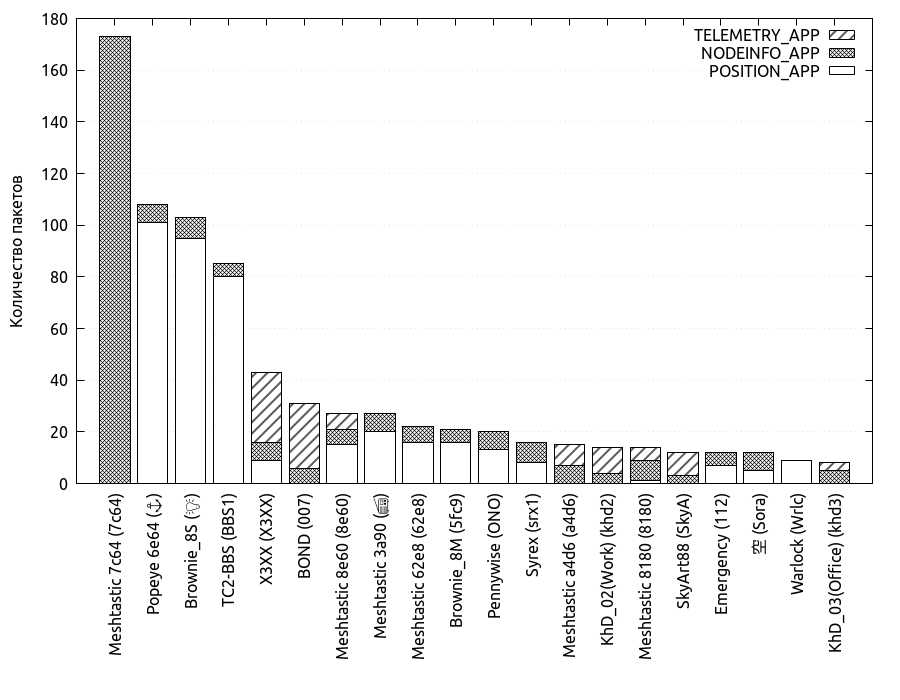
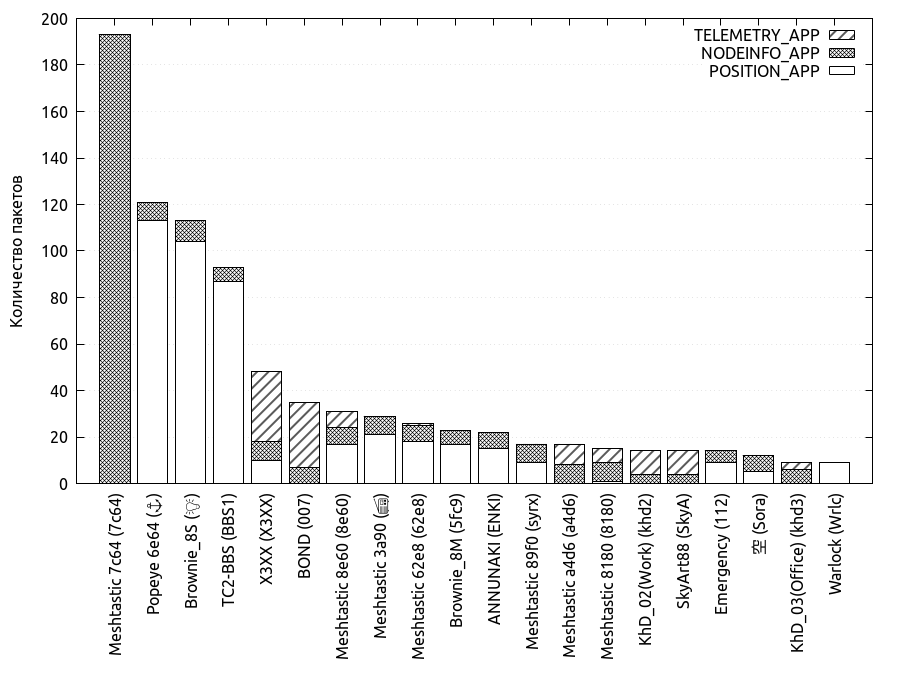
Update: 2026-05-06

diff --git a/spamers/2026-05-06/index.html b/spamers/2026-05-06/index.html
@@ -7,7 +7,7 @@
 <meta name="robots" content="index, follow">
 <title>2026-05-06 | dwr𝔣</title>
 <meta name="keywords" content="">
-<meta name="description" content="Услышано нод за сутки: 34">
+<meta name="description" content="Услышано нод за сутки: 35">
 <meta name="author" content="">
 <link rel="canonical" href="https://dwrf.ftp.sh/spamers/2026-05-06/">
 <link crossorigin="anonymous" href="/assets/css/stylesheet.6fa248c180ac4f9056a884e3b49e304390e0e4bc65ce5c291c0c637f6f2db58c.css" integrity="sha256-b6JIwYCsT5BWqITjtJ4wQ5Dg5LxlzlwpHAxjf28ttYw=" rel="preload stylesheet" as="style">
@@ -30,16 +30,16 @@
 </noscript><meta property="og:url" content="https://dwrf.ftp.sh/spamers/2026-05-06/">
   <meta property="og:site_name" content="dwr𝔣">
   <meta property="og:title" content="2026-05-06">
-  <meta property="og:description" content="Услышано нод за сутки: 34">
+  <meta property="og:description" content="Услышано нод за сутки: 35">
   <meta property="og:locale" content="ru_ru">
   <meta property="og:type" content="article">
     <meta property="article:section" content="spamers">
     <meta property="article:published_time" content="2026-05-06T00:00:00+00:00">
-    <meta property="article:modified_time" content="2026-05-06T21:30:18+03:00">
+    <meta property="article:modified_time" content="2026-05-06T23:55:02+03:00">
 
   <meta name="twitter:card" content="summary">
   <meta name="twitter:title" content="2026-05-06">
-  <meta name="twitter:description" content="Услышано нод за сутки: 34">
+  <meta name="twitter:description" content="Услышано нод за сутки: 35">
 
 
 <script type="application/ld+json">
@@ -68,15 +68,15 @@
   "@type": "BlogPosting",
   "headline": "2026-05-06",
   "name": "2026-05-06",
-  "description": "Услышано нод за сутки: 34",
+  "description": "Услышано нод за сутки: 35",
   "keywords": [
     
   ],
-  "articleBody": "\n# NodeName Position NodeInfo Telemetry 1 Meshtastic 7c64 (7c64) 0 173 0 2 Popeye 6e64 (⚓) 101 7 0 3 Brownie_8S (💡) 95 8 0 4 TC2-BBS (BBS1) 80 5 0 5 X3XX (X3XX) 9 7 27 6 BOND (007) 0 6 25 7 Meshtastic 8e60 (8e60) 15 6 6 8 Meshtastic 3a90 (📻) 20 7 0 9 Meshtastic 62e8 (62e8) 16 6 0 10 Brownie_8M (5fc9) 16 5 0 11 Pennywise (ONO) 13 7 0 12 Syrex (srx1) 8 8 0 13 Meshtastic a4d6 (a4d6) 0 7 8 14 KhD_02(Work) (khd2) 0 4 10 15 Meshtastic 8180 (8180) 1 8 5 16 SkyArt88 (SkyA) 0 3 9 17 Emergency (112) 7 5 0 18 空 (Sora) 5 7 0 19 Warlock (Wrlc) 9 0 0 20 KhD_03(Office) (khd3) 0 5 3 21 DELTA-S (DLT1) 1 6 0 22 Professor (MCU2) 1 6 0 23 Meshtastic f1e4 (f1e4) 0 7 0 24 Armatik_4 (AMT4) 0 7 0 25 Cthulhu (cthl) 0 6 0 26 jenya (ttl) 0 6 0 27 Armatik_3 (AMT3) 0 6 0 28 Solarcore0 (Sun0) 0 6 0 29 Miamiworm (miwr) 0 5 0 30 Meshtastic 3ff8 (3ff8) 0 5 0 31 Meshtastic de3b (de3b) 0 3 0 32 BALABAN (BALA) 2 0 0 33 Meshtastic 2710 (2710) 0 2 0 34 Meshtastic d84c (d84c) 0 1 0 ",
-  "wordCount" : "221",
+  "articleBody": "\n# NodeName Position NodeInfo Telemetry 1 Meshtastic 7c64 (7c64) 0 193 0 2 Popeye 6e64 (⚓) 113 8 0 3 Brownie_8S (💡) 104 9 0 4 TC2-BBS (BBS1) 87 6 0 5 X3XX (X3XX) 10 8 30 6 BOND (007) 0 7 28 7 Meshtastic 8e60 (8e60) 17 7 7 8 Meshtastic 3a90 (📻) 21 8 0 9 Meshtastic 62e8 (62e8) 18 7 1 10 Brownie_8M (5fc9) 17 6 0 11 ANNUNAKI (ENKI) 15 7 0 12 Meshtastic 89f0 (syrx) 9 8 0 13 Meshtastic a4d6 (a4d6) 0 8 9 14 Meshtastic 8180 (8180) 1 8 6 15 KhD_02(Work) (khd2) 0 4 10 16 SkyArt88 (SkyA) 0 4 10 17 Emergency (112) 9 5 0 18 空 (Sora) 5 7 0 19 KhD_03(Office) (khd3) 0 6 3 20 Warlock (Wrlc) 9 0 0 21 ProfessorU (MCU3) 2 7 0 22 DELTA-S (DLT1) 1 7 0 23 Armatik_4 (AMT4) 0 8 0 24 Cthulhu (cthl) 0 7 0 25 jenya (ttl) 0 7 0 26 Armatik_3 (AMT3) 0 7 0 27 Solarcore0 (Sun0) 0 7 0 28 Meshtastic f1e4 (f1e4) 0 7 0 29 Miamiworm (miwr) 0 6 0 30 Meshtastic 3ff8 (3ff8) 0 6 0 31 Meshtastic de3b (de3b) 0 3 0 32 BALABAN (BALA) 2 0 0 33 Meshtastic 2710 (2710) 0 2 0 34 Meshtastic d84c (d84c) 0 1 0 35 UGOLOK (UGOL) 0 1 0 ",
+  "wordCount" : "228",
   "inLanguage": "en",
   "datePublished": "2026-05-06T00:00:00Z",
-  "dateModified": "2026-05-06T21:30:18.286953+03:00",
+  "dateModified": "2026-05-06T23:55:02.987251+03:00",
   "mainEntityOfPage": {
     "@type": "WebPage",
     "@id": "https://dwrf.ftp.sh/spamers/2026-05-06/"
@@ -135,83 +135,83 @@
           <td style="text-align: center">1</td>
           <td style="text-align: center">Meshtastic 7c64 (7c64)</td>
           <td style="text-align: center">0</td>
-          <td style="text-align: center">173</td>
+          <td style="text-align: center">193</td>
           <td style="text-align: center">0</td>
       </tr>
       <tr>
           <td style="text-align: center">2</td>
           <td style="text-align: center">Popeye 6e64 (⚓)</td>
-          <td style="text-align: center">101</td>
-          <td style="text-align: center">7</td>
+          <td style="text-align: center">113</td>
+          <td style="text-align: center">8</td>
           <td style="text-align: center">0</td>
       </tr>
       <tr>
           <td style="text-align: center">3</td>
           <td style="text-align: center">Brownie_8S (💡)</td>
-          <td style="text-align: center">95</td>
-          <td style="text-align: center">8</td>
+          <td style="text-align: center">104</td>
+          <td style="text-align: center">9</td>
           <td style="text-align: center">0</td>
       </tr>
       <tr>
           <td style="text-align: center">4</td>
           <td style="text-align: center">TC2-BBS (BBS1)</td>
-          <td style="text-align: center">80</td>
-          <td style="text-align: center">5</td>
+          <td style="text-align: center">87</td>
+          <td style="text-align: center">6</td>
           <td style="text-align: center">0</td>
       </tr>
       <tr>
           <td style="text-align: center">5</td>
           <td style="text-align: center">X3XX (X3XX)</td>
-          <td style="text-align: center">9</td>
-          <td style="text-align: center">7</td>
-          <td style="text-align: center">27</td>
+          <td style="text-align: center">10</td>
+          <td style="text-align: center">8</td>
+          <td style="text-align: center">30</td>
       </tr>
       <tr>
           <td style="text-align: center">6</td>
           <td style="text-align: center">BOND (007)</td>
           <td style="text-align: center">0</td>
-          <td style="text-align: center">6</td>
-          <td style="text-align: center">25</td>
+          <td style="text-align: center">7</td>
+          <td style="text-align: center">28</td>
       </tr>
       <tr>
           <td style="text-align: center">7</td>
           <td style="text-align: center">Meshtastic 8e60 (8e60)</td>
-          <td style="text-align: center">15</td>
-          <td style="text-align: center">6</td>
-          <td style="text-align: center">6</td>
+          <td style="text-align: center">17</td>
+          <td style="text-align: center">7</td>
+          <td style="text-align: center">7</td>
       </tr>
       <tr>
           <td style="text-align: center">8</td>
           <td style="text-align: center">Meshtastic 3a90 (📻)</td>
-          <td style="text-align: center">20</td>
-          <td style="text-align: center">7</td>
+          <td style="text-align: center">21</td>
+          <td style="text-align: center">8</td>
           <td style="text-align: center">0</td>
       </tr>
       <tr>
           <td style="text-align: center">9</td>
           <td style="text-align: center">Meshtastic 62e8 (62e8)</td>
-          <td style="text-align: center">16</td>
-          <td style="text-align: center">6</td>
-          <td style="text-align: center">0</td>
+          <td style="text-align: center">18</td>
+          <td style="text-align: center">7</td>
+          <td style="text-align: center">1</td>
       </tr>
       <tr>
           <td style="text-align: center">10</td>
           <td style="text-align: center">Brownie_8M (5fc9)</td>
-          <td style="text-align: center">16</td>
-          <td style="text-align: center">5</td>
+          <td style="text-align: center">17</td>
+          <td style="text-align: center">6</td>
           <td style="text-align: center">0</td>
       </tr>
       <tr>
           <td style="text-align: center">11</td>
-          <td style="text-align: center">Pennywise (ONO)</td>
-          <td style="text-align: center">13</td>
+          <td style="text-align: center">ANNUNAKI (ENKI)</td>
+          <td style="text-align: center">15</td>
           <td style="text-align: center">7</td>
           <td style="text-align: center">0</td>
       </tr>
       <tr>
           <td style="text-align: center">12</td>
-          <td style="text-align: center">Syrex (srx1)</td>
-          <td style="text-align: center">8</td>
+          <td style="text-align: center">Meshtastic 89f0 (syrx)</td>
+          <td style="text-align: center">9</td>
           <td style="text-align: center">8</td>
           <td style="text-align: center">0</td>
       </tr>
@@ -219,34 +219,34 @@
           <td style="text-align: center">13</td>
           <td style="text-align: center">Meshtastic a4d6 (a4d6)</td>
           <td style="text-align: center">0</td>
-          <td style="text-align: center">7</td>
           <td style="text-align: center">8</td>
+          <td style="text-align: center">9</td>
       </tr>
       <tr>
           <td style="text-align: center">14</td>
+          <td style="text-align: center">Meshtastic 8180 (8180)</td>
+          <td style="text-align: center">1</td>
+          <td style="text-align: center">8</td>
+          <td style="text-align: center">6</td>
+      </tr>
+      <tr>
+          <td style="text-align: center">15</td>
           <td style="text-align: center">KhD_02(Work) (khd2)</td>
           <td style="text-align: center">0</td>
           <td style="text-align: center">4</td>
           <td style="text-align: center">10</td>
       </tr>
       <tr>
-          <td style="text-align: center">15</td>
-          <td style="text-align: center">Meshtastic 8180 (8180)</td>
-          <td style="text-align: center">1</td>
-          <td style="text-align: center">8</td>
-          <td style="text-align: center">5</td>
-      </tr>
-      <tr>
           <td style="text-align: center">16</td>
           <td style="text-align: center">SkyArt88 (SkyA)</td>
           <td style="text-align: center">0</td>
-          <td style="text-align: center">3</td>
-          <td style="text-align: center">9</td>
+          <td style="text-align: center">4</td>
+          <td style="text-align: center">10</td>
       </tr>
       <tr>
           <td style="text-align: center">17</td>
           <td style="text-align: center">Emergency (112)</td>
-          <td style="text-align: center">7</td>
+          <td style="text-align: center">9</td>
           <td style="text-align: center">5</td>
           <td style="text-align: center">0</td>
       </tr>
@@ -259,86 +259,86 @@
       </tr>
       <tr>
           <td style="text-align: center">19</td>
+          <td style="text-align: center">KhD_03(Office) (khd3)</td>
+          <td style="text-align: center">0</td>
+          <td style="text-align: center">6</td>
+          <td style="text-align: center">3</td>
+      </tr>
+      <tr>
+          <td style="text-align: center">20</td>
           <td style="text-align: center">Warlock (Wrlc)</td>
           <td style="text-align: center">9</td>
           <td style="text-align: center">0</td>
           <td style="text-align: center">0</td>
       </tr>
       <tr>
-          <td style="text-align: center">20</td>
-          <td style="text-align: center">KhD_03(Office) (khd3)</td>
-          <td style="text-align: center">0</td>
-          <td style="text-align: center">5</td>
-          <td style="text-align: center">3</td>
-      </tr>
-      <tr>
           <td style="text-align: center">21</td>
-          <td style="text-align: center">DELTA-S (DLT1)</td>
-          <td style="text-align: center">1</td>
-          <td style="text-align: center">6</td>
-          <td style="text-align: center">0</td>
-      </tr>
-      <tr>
-          <td style="text-align: center">22</td>
-          <td style="text-align: center">Professor (MCU2)</td>
-          <td style="text-align: center">1</td>
-          <td style="text-align: center">6</td>
-          <td style="text-align: center">0</td>
-      </tr>
-      <tr>
-          <td style="text-align: center">23</td>
-          <td style="text-align: center">Meshtastic f1e4 (f1e4)</td>
-          <td style="text-align: center">0</td>
+          <td style="text-align: center">ProfessorU (MCU3)</td>
+          <td style="text-align: center">2</td>
           <td style="text-align: center">7</td>
           <td style="text-align: center">0</td>
       </tr>
       <tr>
-          <td style="text-align: center">24</td>
+          <td style="text-align: center">22</td>
+          <td style="text-align: center">DELTA-S (DLT1)</td>
+          <td style="text-align: center">1</td>
+          <td style="text-align: center">7</td>
+          <td style="text-align: center">0</td>
+      </tr>
+      <tr>
+          <td style="text-align: center">23</td>
           <td style="text-align: center">Armatik_4 (AMT4)</td>
+          <td style="text-align: center">0</td>
+          <td style="text-align: center">8</td>
+          <td style="text-align: center">0</td>
+      </tr>
+      <tr>
+          <td style="text-align: center">24</td>
+          <td style="text-align: center">Cthulhu (cthl)</td>
           <td style="text-align: center">0</td>
           <td style="text-align: center">7</td>
           <td style="text-align: center">0</td>
       </tr>
       <tr>
           <td style="text-align: center">25</td>
-          <td style="text-align: center">Cthulhu (cthl)</td>
+          <td style="text-align: center">jenya (ttl)</td>
           <td style="text-align: center">0</td>
-          <td style="text-align: center">6</td>
+          <td style="text-align: center">7</td>
           <td style="text-align: center">0</td>
       </tr>
       <tr>
           <td style="text-align: center">26</td>
-          <td style="text-align: center">jenya (ttl)</td>
+          <td style="text-align: center">Armatik_3 (AMT3)</td>
           <td style="text-align: center">0</td>
-          <td style="text-align: center">6</td>
+          <td style="text-align: center">7</td>
           <td style="text-align: center">0</td>
       </tr>
       <tr>
           <td style="text-align: center">27</td>
-          <td style="text-align: center">Armatik_3 (AMT3)</td>
+          <td style="text-align: center">Solarcore0 (Sun0)</td>
           <td style="text-align: center">0</td>
-          <td style="text-align: center">6</td>
+          <td style="text-align: center">7</td>
           <td style="text-align: center">0</td>
       </tr>
       <tr>
           <td style="text-align: center">28</td>
-          <td style="text-align: center">Solarcore0 (Sun0)</td>
+          <td style="text-align: center">Meshtastic f1e4 (f1e4)</td>
           <td style="text-align: center">0</td>
-          <td style="text-align: center">6</td>
+          <td style="text-align: center">7</td>
           <td style="text-align: center">0</td>
       </tr>
       <tr>
           <td style="text-align: center">29</td>
           <td style="text-align: center">Miamiworm (miwr)</td>
           <td style="text-align: center">0</td>
-          <td style="text-align: center">5</td>
+          <td style="text-align: center">6</td>
           <td style="text-align: center">0</td>
       </tr>
       <tr>
           <td style="text-align: center">30</td>
           <td style="text-align: center">Meshtastic 3ff8 (3ff8)</td>
           <td style="text-align: center">0</td>
-          <td style="text-align: center">5</td>
+          <td style="text-align: center">6</td>
           <td style="text-align: center">0</td>
       </tr>
       <tr>
@@ -365,6 +365,13 @@
       <tr>
           <td style="text-align: center">34</td>
           <td style="text-align: center">Meshtastic d84c (d84c)</td>
+          <td style="text-align: center">0</td>
+          <td style="text-align: center">1</td>
+          <td style="text-align: center">0</td>
+      </tr>
+      <tr>
+          <td style="text-align: center">35</td>
+          <td style="text-align: center">UGOLOK (UGOL)</td>
           <td style="text-align: center">0</td>
           <td style="text-align: center">1</td>
           <td style="text-align: center">0</td>

diff --git a/index.html b/index.html
@@ -74,7 +74,7 @@
     </h2>
   </header>
   <div class="entry-content">
-    <p>Услышано нод за сутки: 34</p>
+    <p>Услышано нод за сутки: 35</p>
   </div>
   <footer class="entry-footer"><span title='2026-05-06 00:00:00 +0000 UTC'>May 6, 2026</span></footer>
   <a class="entry-link" aria-label="post link to 2026-05-06" href="https://dwrf.ftp.sh/spamers/2026-05-06/"></a>

diff --git a/spamers/index.html b/spamers/index.html
@@ -81,7 +81,7 @@
     </h2>
   </header>
   <div class="entry-content">
-    <p>Услышано нод за сутки: 34</p>
+    <p>Услышано нод за сутки: 35</p>
   </div>
   <footer class="entry-footer"><span title='2026-05-06 00:00:00 +0000 UTC'>May 6, 2026</span></footer>
   <a class="entry-link" aria-label="post link to 2026-05-06" href="https://dwrf.ftp.sh/spamers/2026-05-06/"></a>
